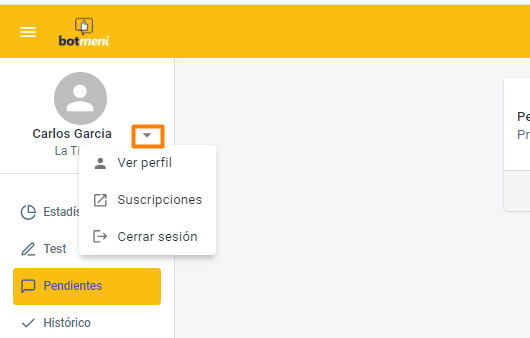
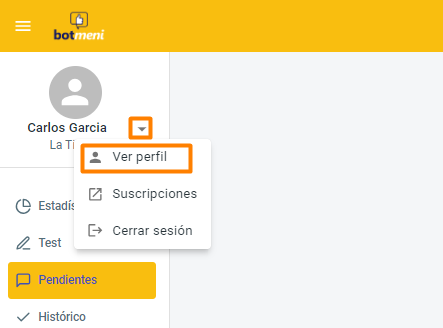
tu suscripcion

diff --git a/content/docs/Suscripcíon_y_Pagos/Tus_Pagos/Ver_detalles_pagos_suscripcion.md b/content/docs/Suscripcíon_y_Pagos/Tus_Pagos/Ver_detalles_pagos_suscripcion.md
@@ -1,5 +1,5 @@
 ---
-weight: 315
+weight: 410
 title: "Detalle de los pagos de tus suscripciones"
 description: "Detalle de los pagos de tus suscripciones"
 icon: "inventory_2"
@@ -16,12 +16,14 @@ En la sección Pagos podrás visualizar el detalle completo de los pagos asociad
 
 Para obtener esa información:
 
-1. Visualiza la sección [Suscripciones](Visualizar_Suscripciones.md)
-2. Selecciona el botón Ver Detalles de tu suscripción con estado válida 
+1. Inicia sesión desde la página de login  <https://prod.botmeni.com/login>.
+2. Presiona el ícono triángulo invertido ubicado a la derecha de tu nombre. Se desplegará un menú de opciones.Presiona Suscripciones
+{{< figure width="420px" height="300px" src="/images/general/suscripciones.png" >}} 
+3. Selecciona el botón Ver Detalles de tu suscripción con estado válida 
 {{< figure width="700px" height="500px" src="/images/general/suscripciones_ver_detalles.png" >}} 
-3. Haz clic en Pagos. También puedes presionar el botón VER PAGOS.
+4. Haz clic en Pagos. También puedes presionar el botón VER PAGOS.
 {{< figure width="700px" height="500px" src="/images/general/suscripciones_3.png" >}} 
-4. Se desplegará un listado con todos los pagos relacionados a la suscripción activa. Si presionas el botón VER DETALLE a la derecha de cada registro, podrás obtener más información de cada uno de ellos.
+5. Se desplegará un listado con todos los pagos relacionados a la suscripción activa. Si presionas el botón VER DETALLE a la derecha de cada registro, podrás obtener más información de cada uno de ellos.
 {{< figure width="700px" height="500px" src="/images/general/suscripciones_4.png" >}} 
 <br></br>
 
@@ -31,7 +33,8 @@ En la sección Pagos podrás visualizar el detalle completo de tus pagos asociad
 
 Para obtener esa información:
 
-1. Visualiza la sección [Suscripciones](Visualizar_Suscripciones.md)
+1. Presiona el ícono triángulo invertido ubicado a la derecha de tu nombre. Se desplegará un menú de opciones.Presiona Suscripciones
+{{< figure width="420px" height="300px" src="/images/general/suscripciones.png" >}} 
 2. Selecciona el botón Ver Detalles de la suscripción correspondiente. 
 {{< figure width="700px" height="500px" src="/images/general/suscripciones_5.png" >}} 
 3. Haz clic en Pagos. También puedes presionar el botón VER PAGOS.

diff --git a/content/docs/Suscripcíon_y_Pagos/Tu_Suscripcion/Conocer_beneficios_planes.md b/content/docs/Suscripcíon_y_Pagos/Tu_Suscripcion/Conocer_beneficios_planes.md
@@ -1,5 +1,5 @@
 ---
-weight: 415
+weight: 315
 title: "Funcionalidades y beneficios incluidos según el plan"
 description: "Funcionalidades y beneficios incluidos según el plan"
 icon: "inventory_2"
@@ -13,20 +13,27 @@ toc: true
 ### Características del plan contratado
 
 Si deseas conocer las funcionalidades y beneficios incluidos en tu plan:
-1. Ingresa a Mi perfil (link)
+1. Presiona el ícono triángulo invertido ubicado al costado de tu nombre. Se desplegará el menú que se muestra en la imagen.Selecciona Ver perfil.
+{{< figure width="420px" height="300px" src="/images/general/ver_pefil.png" >}}
 2. Selecciona el módulo Aplicaciones.
-imagen
+{{< figure width="420px" height="300px" src="/images/general/aplicaciones.png" >}}
 3. El plan contratado estará resaltado con la Leyenda: Plan actual.
+{{< figure width="700px" height="500px" src="/images/general/plan_actual.png" >}}
 <br></br>
-También puedes revisar las características de tu plan ingresando a Mi perfil (link), y luego seleccionando el botón VER DETALLES a la derecha de la suscripción con estado Activa.
+
+También puedes revisar las características de tu plan ingresando a [Mi perfil](Visualizar_tu_perfil.md), y luego seleccionando el botón VER DETALLES a la derecha de la suscripción con estado Activa.
 <br></br>
 
 ### Características de los planes disponibles en botmeni
 
 Si deseas conocer las funcionalidades y beneficios incluidos en los planes disponibles en botmeni:
-1. Ingresa a Mi perfil (link)
+1. Presiona el ícono triángulo invertido ubicado al costado de tu nombre. Se desplegará el menú que se muestra en la imagen.Selecciona Ver perfil.
+{{< figure width="420px" height="300px" src="/images/general/ver_pefil.png" >}}
 2. Selecciona el módulo Aplicaciones.
-imagen
+{{< figure width="420px" height="300px" src="/images/general/aplicaciones.png" >}}
+3. Se presentará todos los planes disponibles con los beneficios y funcionalidades disponibles en cada uno.
+{{< figure width="700px" height="500px" src="/images/general/planes.png" >}}
+
 
 <br></br>
 Otra forma de visualizar los planes disponibles con las funcionalidades que brinda cada uno es ingresar a la página principal <https://botmeni.com>, y seleccionar la opción Precios.

diff --git a/content/docs/administra_tu_cuenta/Tu_Perfil/Visualizar_tu_perfil.md b/content/docs/administra_tu_cuenta/Tu_Perfil/Visualizar_tu_perfil.md
@@ -14,9 +14,9 @@ toc: true
 Para visualizar los datos asociados a la cuenta de botmeni:
 
 1. [Inicia sesión](Iniciar_sesión.md) con los datos del usuario principal.
-2. Presiona el ícono triángulo invertido ubicado al costado de tu nombre. Se desplegará el menú que se muestra en la imagen.
+2. Presiona el ícono triángulo invertido ubicado al costado de tu nombre. Se desplegará el menú que se muestra en la imagen.Selecciona Ver perfil.
 {{< figure width="420px" height="300px" src="/images/general/ver_pefil.png" >}}
-3. Selecciona Ver perfil.
+
 <br></br>
 
 A continuación, se desplegará una pantalla con el detalle completo del la cuenta de botmeni. Además, en la misma tendrás varias acciones disponibles que te permitirán, por ejemplo, [editar los datos](Actualizar_los_datos.md), [cambiar la contraseña](Contraseña.md) y [gestionar las tarjetas](../../Suscripcíon_y_Pagos/Tus_Pagos/Modificar_tarjeta_adherida_suscripciones.md).

diff --git a/content/docs/Suscripcíon_y_Pagos/Tus_Pagos/Visualizar_y_descargar_factura_suscricion_activa.md b/content/docs/Suscripcíon_y_Pagos/Tus_Pagos/Visualizar_y_descargar_factura_suscricion_activa.md
@@ -1,5 +1,5 @@
 ---
-weight: 325
+weight: 425
 title: "Visualizar y descargar factura de tu suscripción activa"
 description: "Visualizar y descargar factura de tu suscripción activa"
 icon: "inventory_2"
@@ -10,7 +10,8 @@ draft: false
 toc: true
 ---
 Para descargar tu factura:
-1. Visualiza la sección [Suscripciones](Visualizar_Suscripciones.md).
+1. Presiona el ícono triángulo invertido ubicado a la derecha de tu nombre. Se desplegará un menú de opciones.Presiona Suscripciones
+{{< figure width="420px" height="300px" src="/images/general/suscripciones.png" >}} 
 2. Selecciona el botón Ver Detalles de tu suscripción en estado válida
 {{< figure width="700px" height="500px" src="/images/general/suscripciones_ver_detalles.png" >}} 
 3. Presiona el botón FACTURA.

diff --git a/content/docs/Suscripcíon_y_Pagos/Tu_Suscripcion/Cotizar_cambio.md b/content/docs/Suscripcíon_y_Pagos/Tu_Suscripcion/Cotizar_cambio.md
@@ -1,5 +1,5 @@
 ---
-weight: 430
+weight: 330
 title: "Cotizar una modificación en la suscripción activa"
 description: "Cotizar una modificación en el plan o la cantidad de preguntas contratadas"
 icon: "inventory_2"
@@ -12,7 +12,8 @@ toc: true
 ### Cotizar una modificación en la cantidad de preguntas contratadas
 
 Para conocer el precio de tu plan para una cantidad de preguntas distinta de la que tienes contratada:
-1. Ingresa a Mi perfil (link)
+1. Ingresa a Mi perfil.
+
 2. Selecciona el módulo Aplicaciones.
 imagen
 3. El plan contratado está resaltado con la leyenda: Plan actual. Podrás conocer el precio asociado a distintas cantidades de preguntas seleccionando las opciones disponibles en el recuadro Cantidad de preguntas.

diff --git a/content/docs/Suscripcíon_y_Pagos/Tus_Pagos/Descargar_Recibo.md b/content/docs/Suscripcíon_y_Pagos/Tus_Pagos/Descargar_Recibo.md
@@ -1,5 +1,5 @@
 ---
-weight: 330
+weight: 430
 title: "Descargar recibo"
 description: "Descargar recibo"
 icon: "inventory_2"
@@ -11,7 +11,8 @@ toc: true
 ---
 <br></br>
 Para descargar tu recibo 
-1. Ingresa a la sección [Suscripciones](Visualizar_Suscripciones.md).
+1.Presiona el ícono triángulo invertido ubicado a la derecha de tu nombre. Se desplegará un menú de opciones.Presiona Suscripciones
+{{< figure width="420px" height="300px" src="/images/general/suscripciones.png" >}} 
 2. Selecciona el botón Ver Detalles de tu suscripción en estado válida.
 {{< figure width="700px" height="500px" src="/images/general/suscripciones_ver_detalles.png" >}} 
 3. Presiona el botón FACTURA. Se abrirá una nueva ventana.

diff --git a/content/docs/Suscripcíon_y_Pagos/Tus_Pagos/Modificar_tarjeta_adherida_suscripciones.md b/content/docs/Suscripcíon_y_Pagos/Tus_Pagos/Modificar_tarjeta_adherida_suscripciones.md
@@ -1,5 +1,5 @@
 ---
-weight: 350
+weight: 450
 title: "Modificar la tarjeta adherida a la suscripción"
 description: "Modificar la tarjeta adherida a la suscripción"
 icon: "inventory_2"

diff --git a/content/docs/Suscripcíon_y_Pagos/Tu_Suscripcion/Modificar_cantidad_contratada.md b/content/docs/Suscripcíon_y_Pagos/Tu_Suscripcion/Modificar_cantidad_contratada.md
@@ -1,5 +1,5 @@
 ---
-weight: 440
+weight: 340
 title: "Modificar la cantidad de preguntas contratadas"
 description: "Modificar la cantidad de preguntas contratadas"
 icon: "inventory_2"

diff --git a/content/docs/Suscripcíon_y_Pagos/Tu_Suscripcion/Preguntas_disponibles_mes_actual.md b/content/docs/Suscripcíon_y_Pagos/Tu_Suscripcion/Preguntas_disponibles_mes_actual.md
@@ -1,5 +1,5 @@
 ---
-weight: 455
+weight: 355
 title: "¿Cuántas preguntas me quedan disponibles?"
 description: "¿Cuántas preguntas me quedan disponibles?"
 icon: "inventory_2"

diff --git a/content/docs/Suscripcíon_y_Pagos/Tus_Pagos/Eliminar_tarjeta_asociada_a_cuenta.md b/content/docs/Suscripcíon_y_Pagos/Tus_Pagos/Eliminar_tarjeta_asociada_a_cuenta.md
@@ -1,5 +1,5 @@
 ---
-weight: 355
+weight: 455
 title: "Eliminar una tarjeta asociada a la cuenta"
 description: "Eliminar una tarjeta asociada a la cuenta"
 icon: "inventory_2"

diff --git a/content/docs/Suscripcíon_y_Pagos/Tu_Suscripcion/Ver_detalles_suscripción_actual.md b/content/docs/Suscripcíon_y_Pagos/Tu_Suscripcion/Ver_detalles_suscripción_actual.md
@@ -1,5 +1,5 @@
 ---
-weight: 410
+weight: 310
 title: "Detalles de tu suscripción actual"
 description: "Detalles de tu suscripción actual"
 icon: "inventory_2"

diff --git a/content/docs/Suscripcíon_y_Pagos/Tu_Suscripcion/Renovar_anticipadamente_plan.md b/content/docs/Suscripcíon_y_Pagos/Tu_Suscripcion/Renovar_anticipadamente_plan.md
@@ -1,5 +1,5 @@
 ---
-weight: 450
+weight: 350
 title: "Renovar anticipadamente el plan"
 description: "Renovar anticipadamente el plan"
 icon: "inventory_2"
